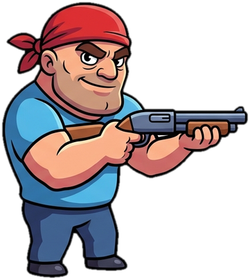
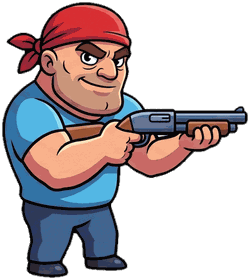
Smaller downloads for the 5 MB web space
Side views reduced to 256 colours (588 KB -> 104 KB, same look),
publish.sh keeps only the current build on the server and uploads the
website download once (yard-wars.love is a rewrite to the zip).

diff --git a/tools/make_comic_sprites.py b/tools/make_comic_sprites.py
@@ -14,7 +14,8 @@ drawn at: a slim sniper isn't blown up to the width of the others; 0.27 for
 ~/Downloads/yard-wars-art-new/top makes the gunner 88px wide).
 
 --side: side views (standing, facing right) for the lobby: same cut-out, scaled to
-SIDE_HEIGHT px tall, saved to assets/images/side/<name>.png (no origin/muzzle).
+SIDE_HEIGHT px tall, reduced to 256 colours (1/6 of the size, looks the same for comic
+art; keeps the game download small), saved to assets/images/side/<name>.png.
 """
 import collections
 import os
@@ -69,7 +70,8 @@ def process_side(src_dir, name):
     rgba = rgba.resize((round(rgba.width * k), SIDE_HEIGHT), Image.LANCZOS)
     out = Image.new("RGBA", (rgba.width + 2 * PAD, rgba.height + 2 * PAD))
     out.alpha_composite(rgba, (PAD, PAD))
-    out.save(os.path.join(SIDE_DIR, name + ".png"))
+    out = out.quantize(256, method=Image.Quantize.FASTOCTREE, dither=Image.Dither.NONE)
+    out.save(os.path.join(SIDE_DIR, name + ".png"), optimize=True)
     print(f"{name:10s} side view {out.width}x{out.height}  (source bbox {bbox})")
 
 

diff --git a/CLAUDE.md b/CLAUDE.md
@@ -40,8 +40,11 @@ the official LÖVE for Android 11.5 (same MTP path).
   host answered `301 -> https`; switched off in the manitu panel). publish.sh also uploads
   `updates/.htaccess` (`RewriteEngine Off`). The https site sends HSTS, so browsers that
   visited it upgrade on their own - test with curl, not a browser.
-- publish.sh also uploads the build as `download/yard-wars.love` + `.zip` (stable names for
-  the website's download links). `.gitattributes` keeps CLAUDE.md, tools/ and website/ out of
+- The web space is only ~5 MB ("Exceeded storage allocation" on 2026-10-04): publish.sh
+  keeps only the current build in /updates/ (deletes the others before and after the
+  upload) and uploads it once more as `download/yard-wars.zip` for the website;
+  `download/.htaccess` rewrites `yard-wars.love` to that zip (a .love is a zip). Keep the
+  package small: the lobby side views are 256-colour PNGs (~100 KB for all four). `.gitattributes` keeps CLAUDE.md, tools/ and website/ out of
   the package (export-ignore).
 - Website (`website/`: index.html, style.css, images/): static page about the game and its
   installation at http://yardwars.zeromips.org/, uploaded by `tools/publish-site.sh` (FTPS
